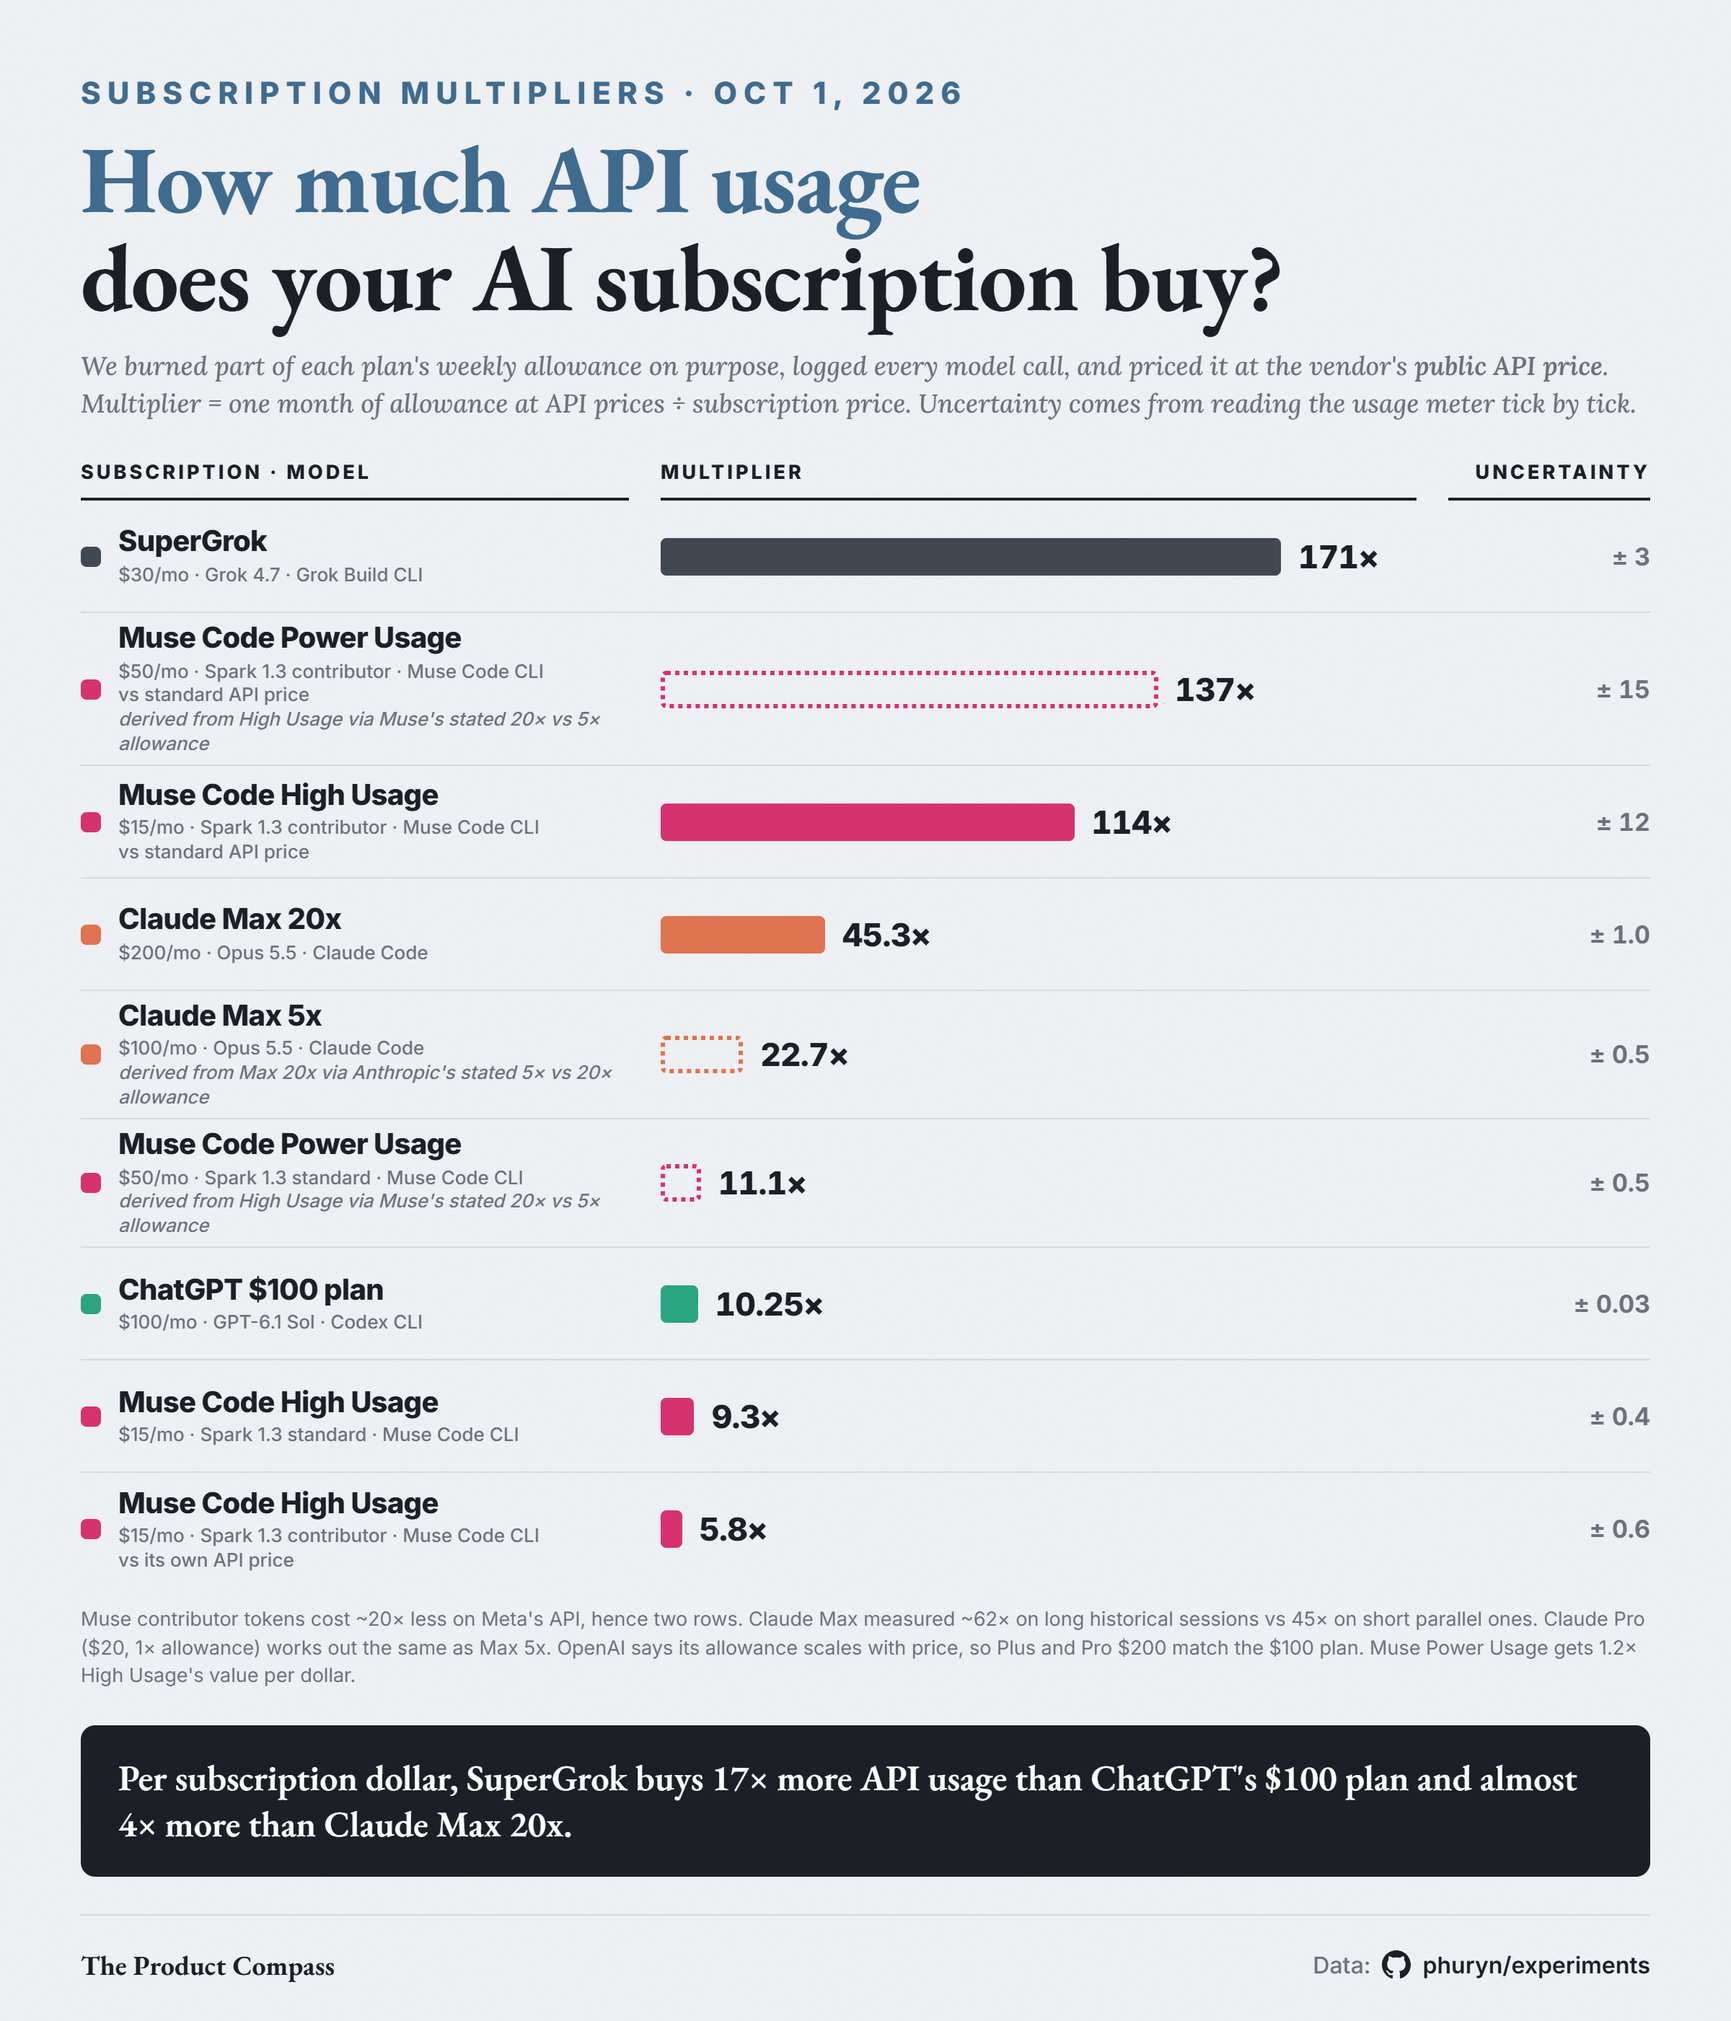
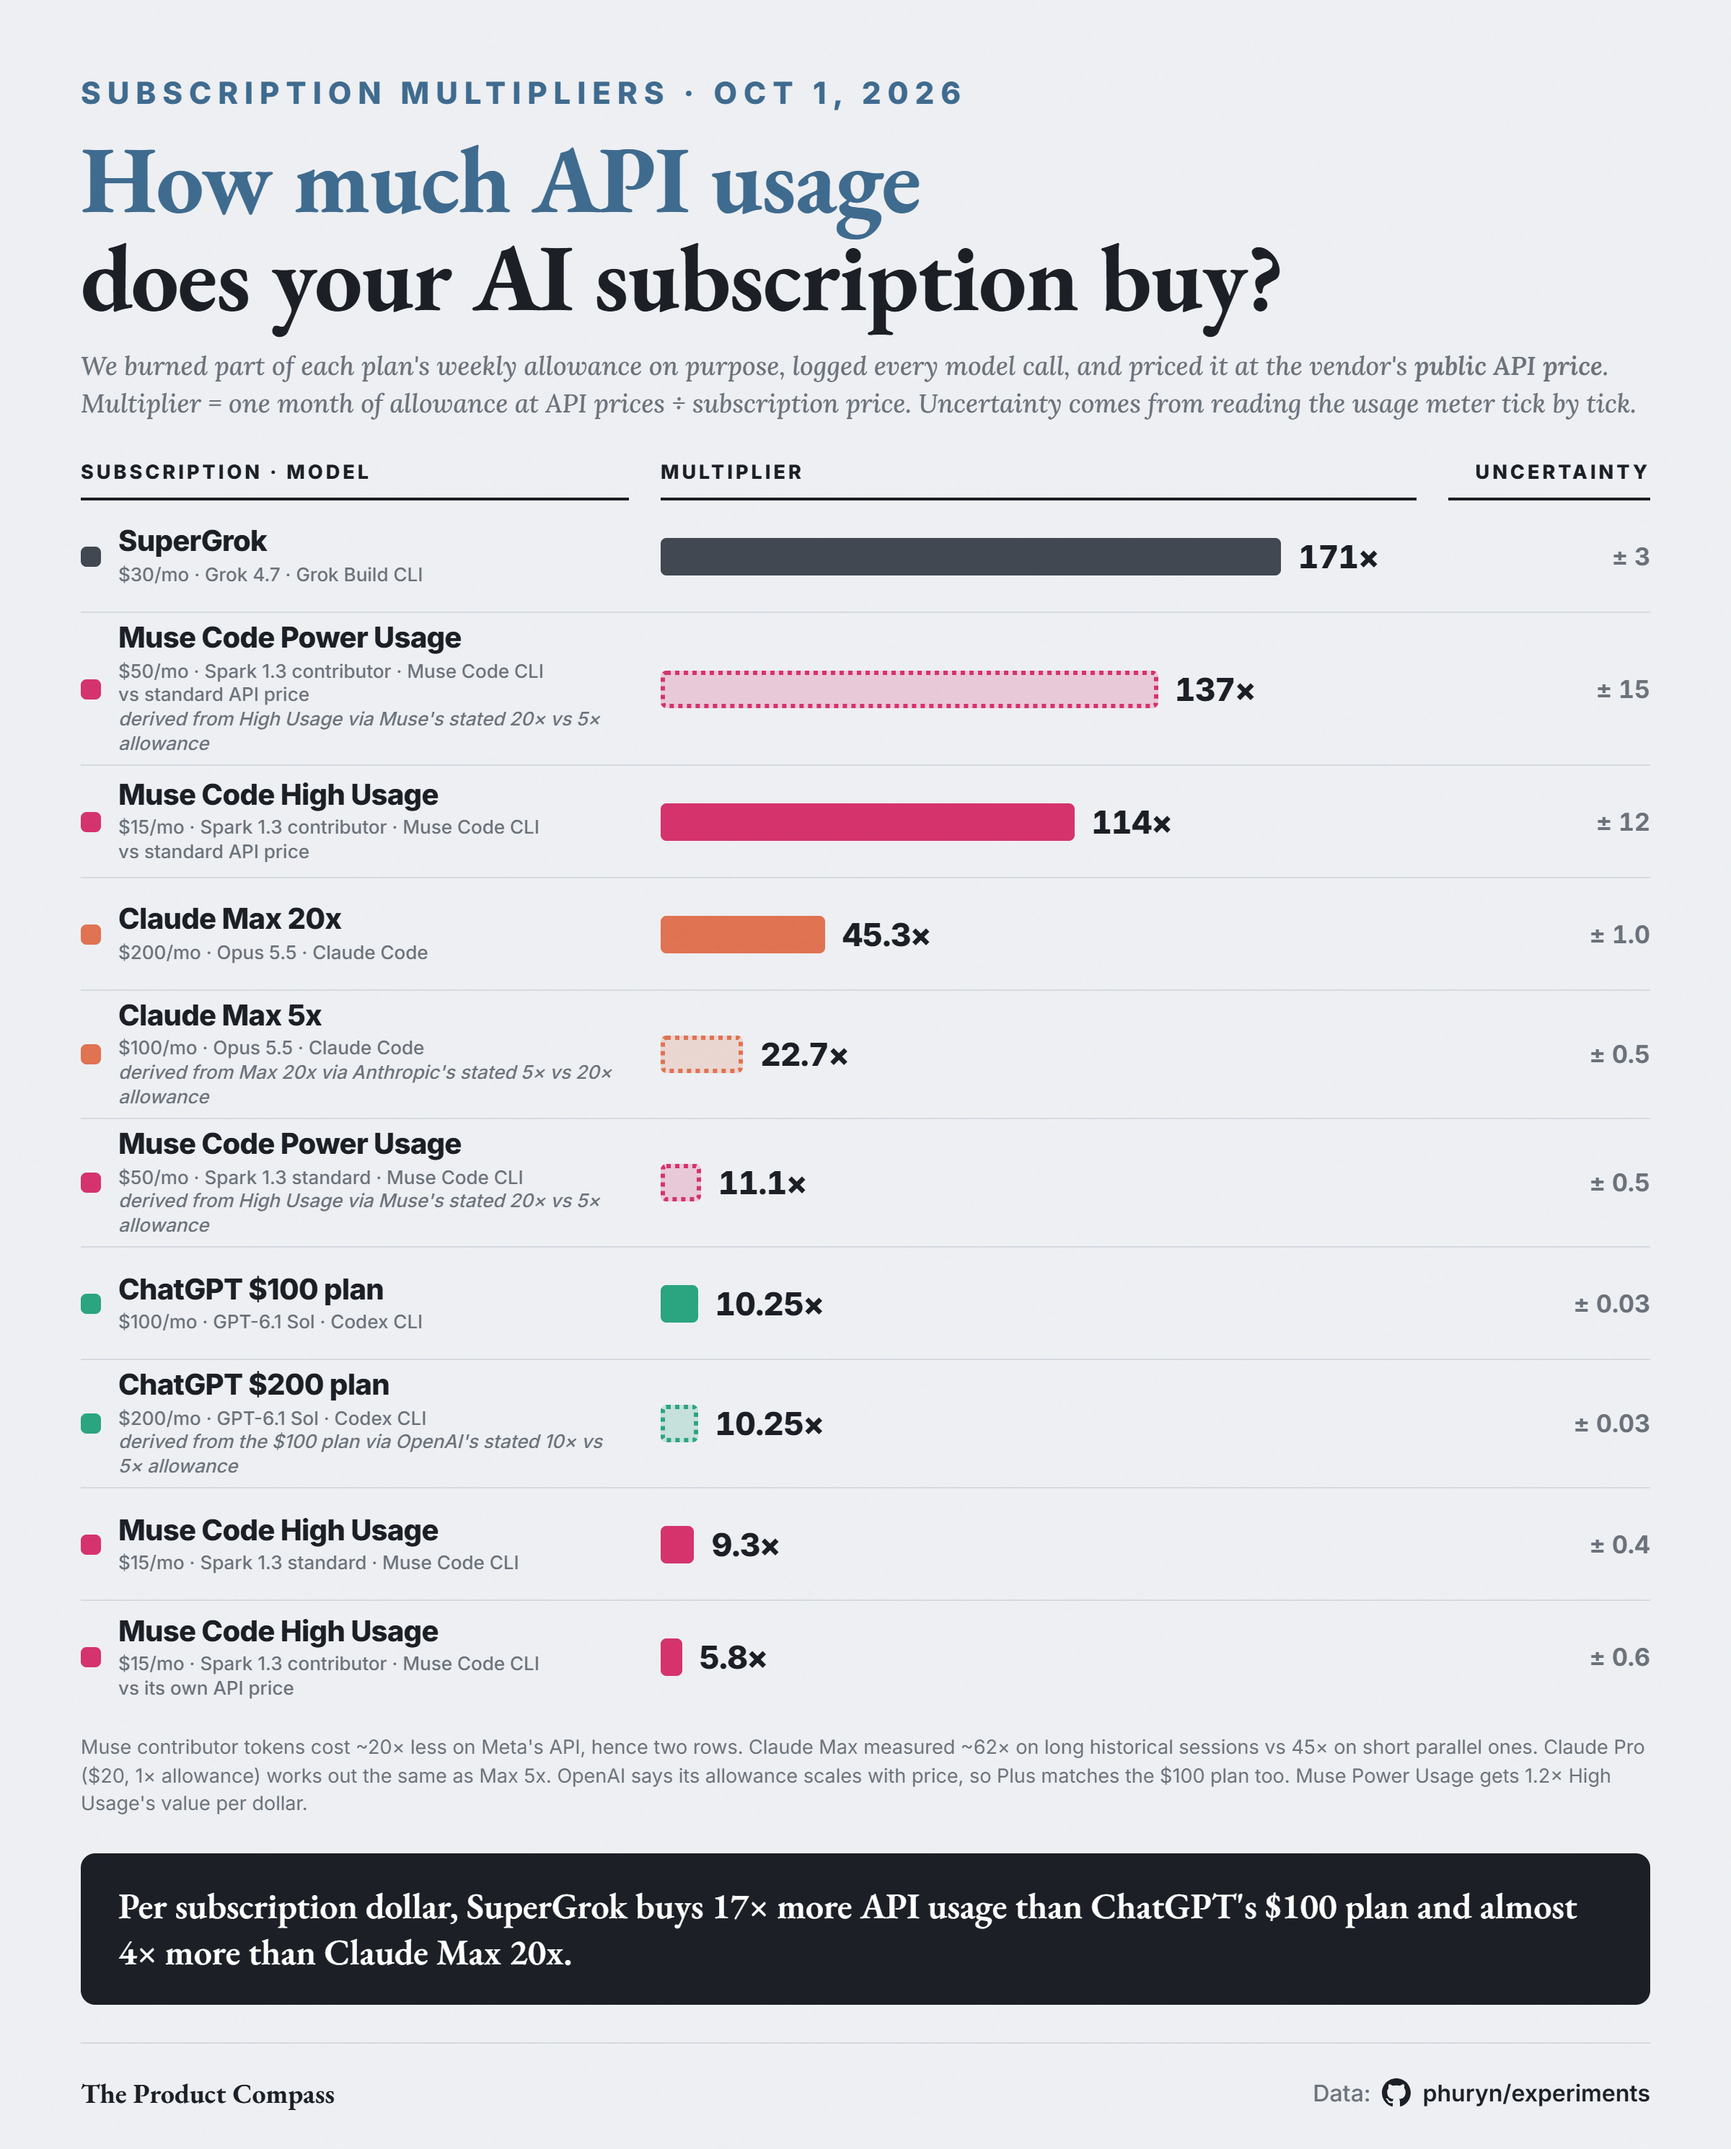
subscription-multipliers: derived ChatGPT $200 plan row; tinted derived bars in chart

diff --git a/subscription-multipliers/03-codex/README.md b/subscription-multipliers/03-codex/README.md
@@ -34,6 +34,18 @@ Consistency check: the step brackets do **not** all intersect (highest floor 10.
 1. **One percent of the week bought ~$2.35 of GPT-6.1 Sol at API prices; a full month ≈ $1,025 for $100.** That is 10.25× on average.
 2. **Single points vary by about ±5%** (9.7–10.7×). A separate week of mixed use on the same account measured 10.7–10.8× over 19 full steps, consistent with that spread.
 
+## Other ChatGPT plans (derived)
+
+Only the $100 plan was measured. OpenAI describes the Codex allowance as proportional to price: Plus ($20) 1×, Pro $100 5×, Pro $200 10×. Taking that at face value, every tier has the same multiplier:
+
+| Plan | Price | Allowance | Multiplier |
+|---|---|---|---|
+| $100 plan (measured) | $100 | 5× | 10.25× ± 0.03 |
+| $200 plan (derived) | $200 | 10× | 10.25 × 10/5 × 100/200 = **10.25× ± 0.03** |
+| Plus (derived) | $20 | 1× | 10.25 × 1/5 × 100/20 = **10.25× ± 0.03** |
+
+These rows are only as good as the stated allowance ratios; they were not measured.
+
 ## Caveats
 
 - OpenAI lists cache writes for this model at $2.50 / M; Codex's logs don't separate cache writes from ordinary input, so they are priced at $2.00. If anything this understates the multiplier slightly.

diff --git a/subscription-multipliers/README.md b/subscription-multipliers/README.md
@@ -13,6 +13,7 @@ How much API usage does an AI coding subscription actually buy? For each plan we
 | [Claude Max 5x · Opus 5.5 · Claude Code — *derived, not measured*](02-claude-max/#other-claude-plans-derived) | $100 | *22.7×* | ± 0.5 |
 | [Muse Code Power Usage · Spark 1.3 standard · Muse Code CLI — *derived, not measured*](04-muse-code/#other-muse-code-plans-derived) | $50 | *11.1×* | ± 0.5 |
 | [ChatGPT $100 plan · GPT-6.1 Sol · Codex CLI](03-codex/) | $100 | **10.25×** | ± 0.03 |
+| [ChatGPT $200 plan · GPT-6.1 Sol · Codex CLI — *derived, not measured*](03-codex/#other-chatgpt-plans-derived) | $200 | *10.25×* | ± 0.03 |
 | [Muse Code High Usage · Spark 1.3 standard · Muse Code CLI](04-muse-code/) | $15 | **9.3×** | ± 0.4 |
 | [Muse Code High Usage · Spark 1.3 contributor · Muse Code CLI — vs its own API price](04-muse-code/) | $15 | **5.8×** | ± 0.6 |
 
